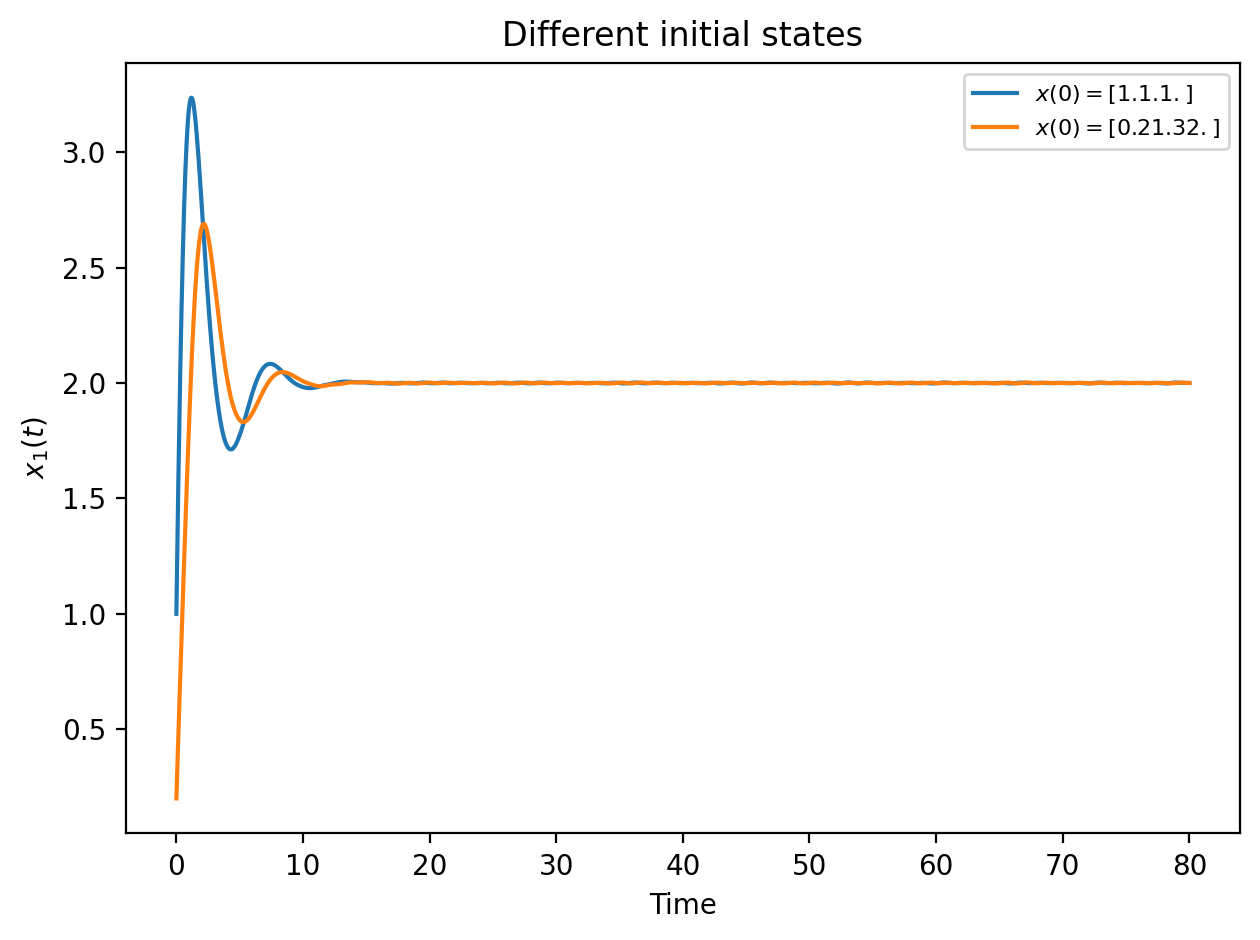
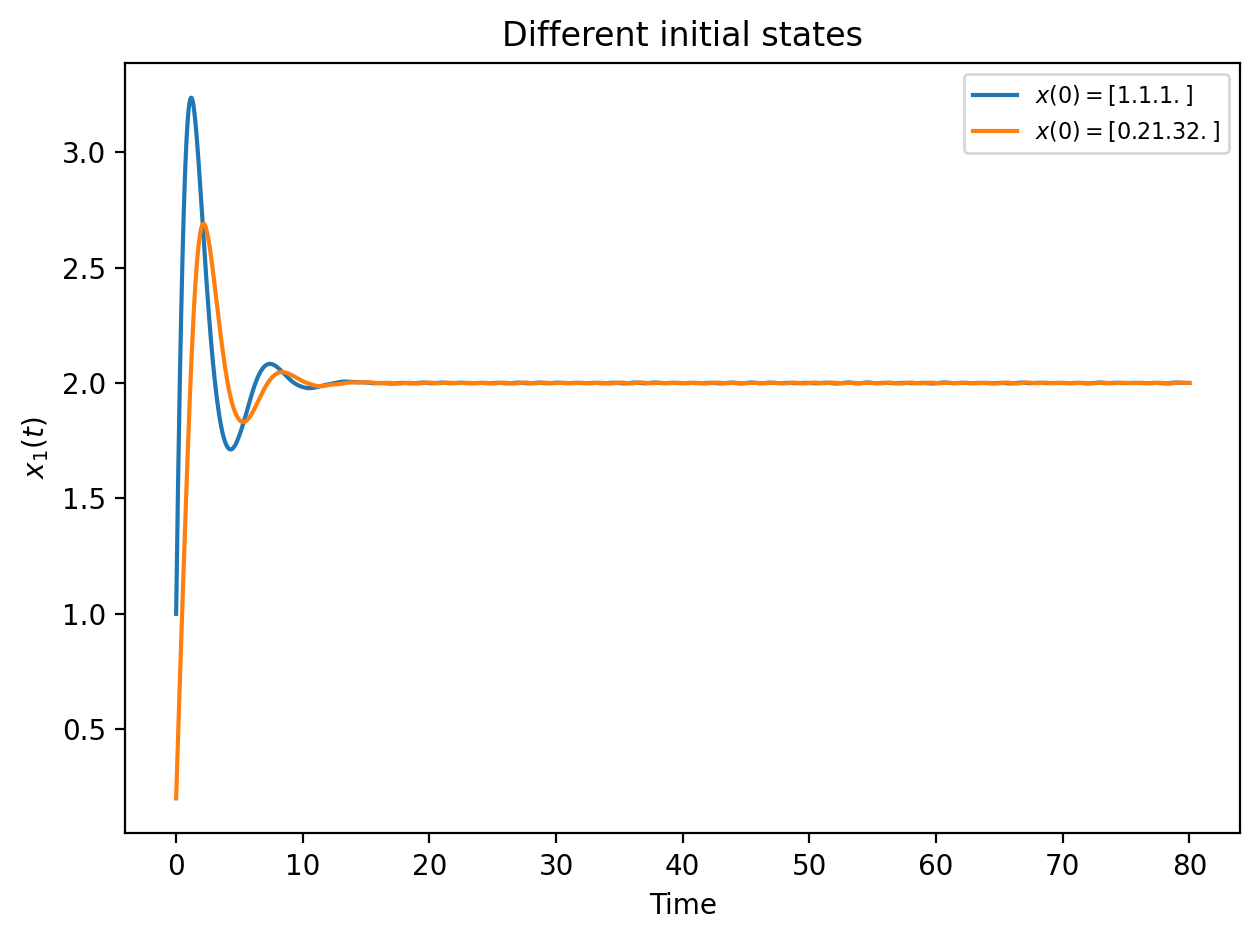
bugfixes

diff --git a/q1.py b/q1.py
@@ -26,7 +26,7 @@ def goodwin_rhs(t, x, alpha, H):
     dx.append((alpha) / (1 + (x[-1] ** H)) - x[0])
     for i in range(1,len(x)):
         dx.append(x[i-1]-x[i])
-    return dx
+    return np.array(dx)
 
 # Question 1(b): investigate the effective time-delay
 def feedback_delay(N, alpha=ALPHA, H=8, threshold=0.1, end=300):
@@ -48,8 +48,8 @@ def feedback_delay(N, alpha=ALPHA, H=8, threshold=0.1, end=300):
     sol = solve_ivp(
     lambda t, x: goodwin_rhs(t,x,alpha,H),
     [0, end], x0, events=hit_thresh)
-
-    return sol.t_events[0]
+    print (sol.t_events[0][0])
+    return sol.t_events[0][0]
 
 
 

diff --git a/test_challenge.py b/test_challenge.py
@@ -2,7 +2,10 @@ import unittest
 import numpy as np
 
 # Adjust this import to match the name of your main challenge script
-import challenge
+from challenge import (
+    REPORTER_PARAMETERS, validate_parameters, edit_summary, 
+    objective, EDITABLE_INDICES, FORBIDDEN_INDICES, PARAMETER_NAMES, GENE_COSTS
+)
 
 class TestClockChallenge(unittest.TestCase):
     

diff --git a/q2.py b/q2.py
@@ -38,7 +38,7 @@ def goldbeter_rhs(t, x, p=PARAMS):
     P1 = J1 - J2 - J3 + J4
     P2 = J3 - J4 - (p["kt1"] * x[3]) + (p["kt2"] * x[4]) - (p["vd"] * x[3] / (p["kd"] + x[3]))
     PN = (p["kt1"] * x[3]) - (p["kt2"] * x[4])
-    return [M, P0, P1, P2, PN]
+    return np.array([M, P0, P1, P2, PN])
     raise NotImplementedError()
 
 

diff --git a/optimizer.py b/optimizer.py
@@ -54,7 +54,7 @@ if __name__ == "__main__":
         return evaluate_parameters(p_trial)["objective"]
         
     steps = 11  # Run for another 50 steps
-    learning_rate = 0.000001 
+    learning_rate = 0.0001 
     
     print(f"Resuming from objective: {objective_for_q(q):.4f}")
     
